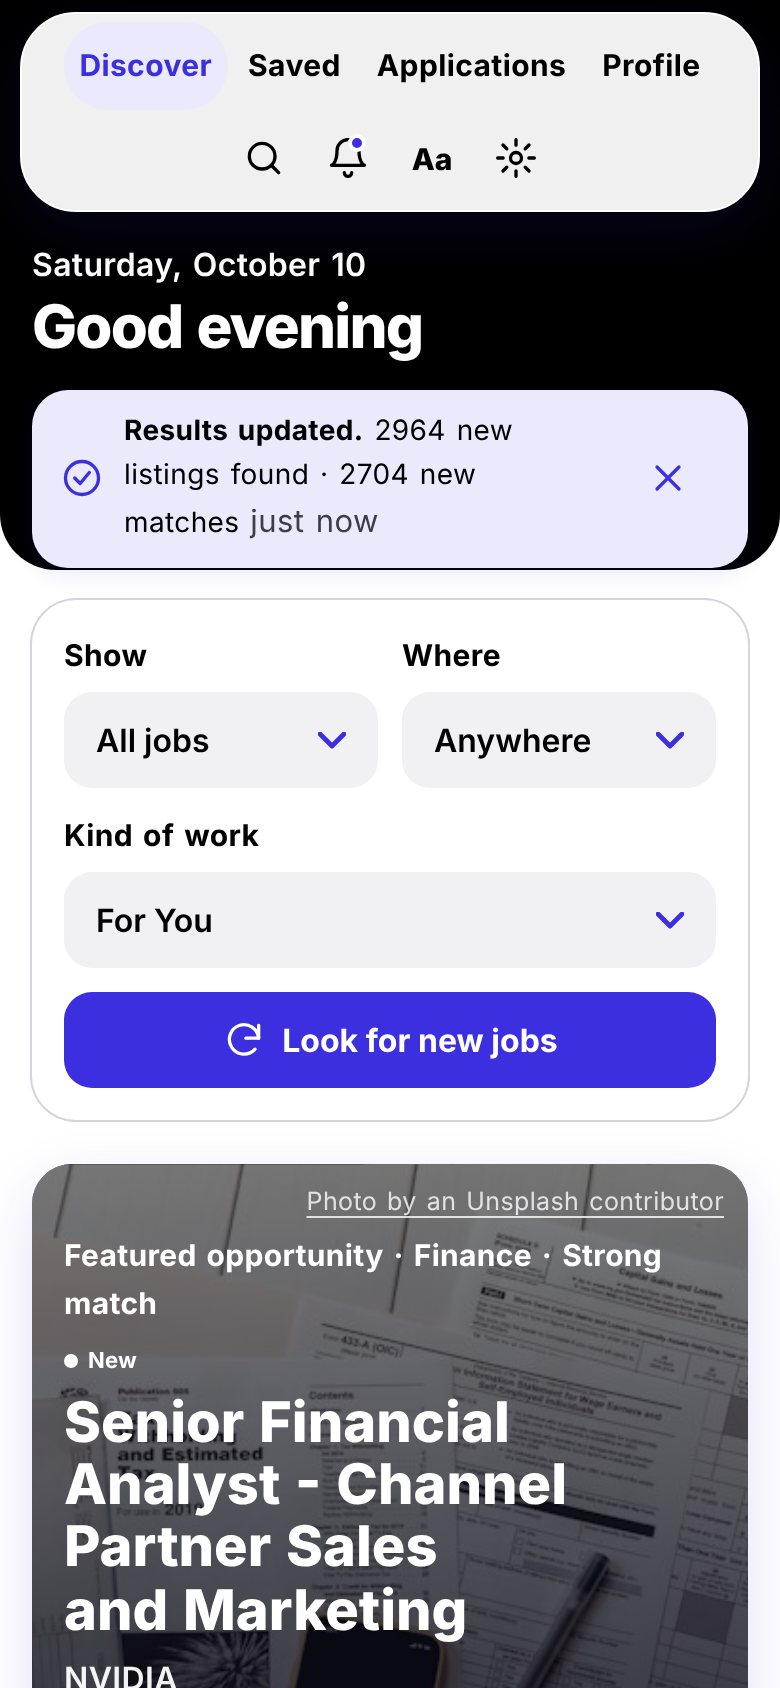
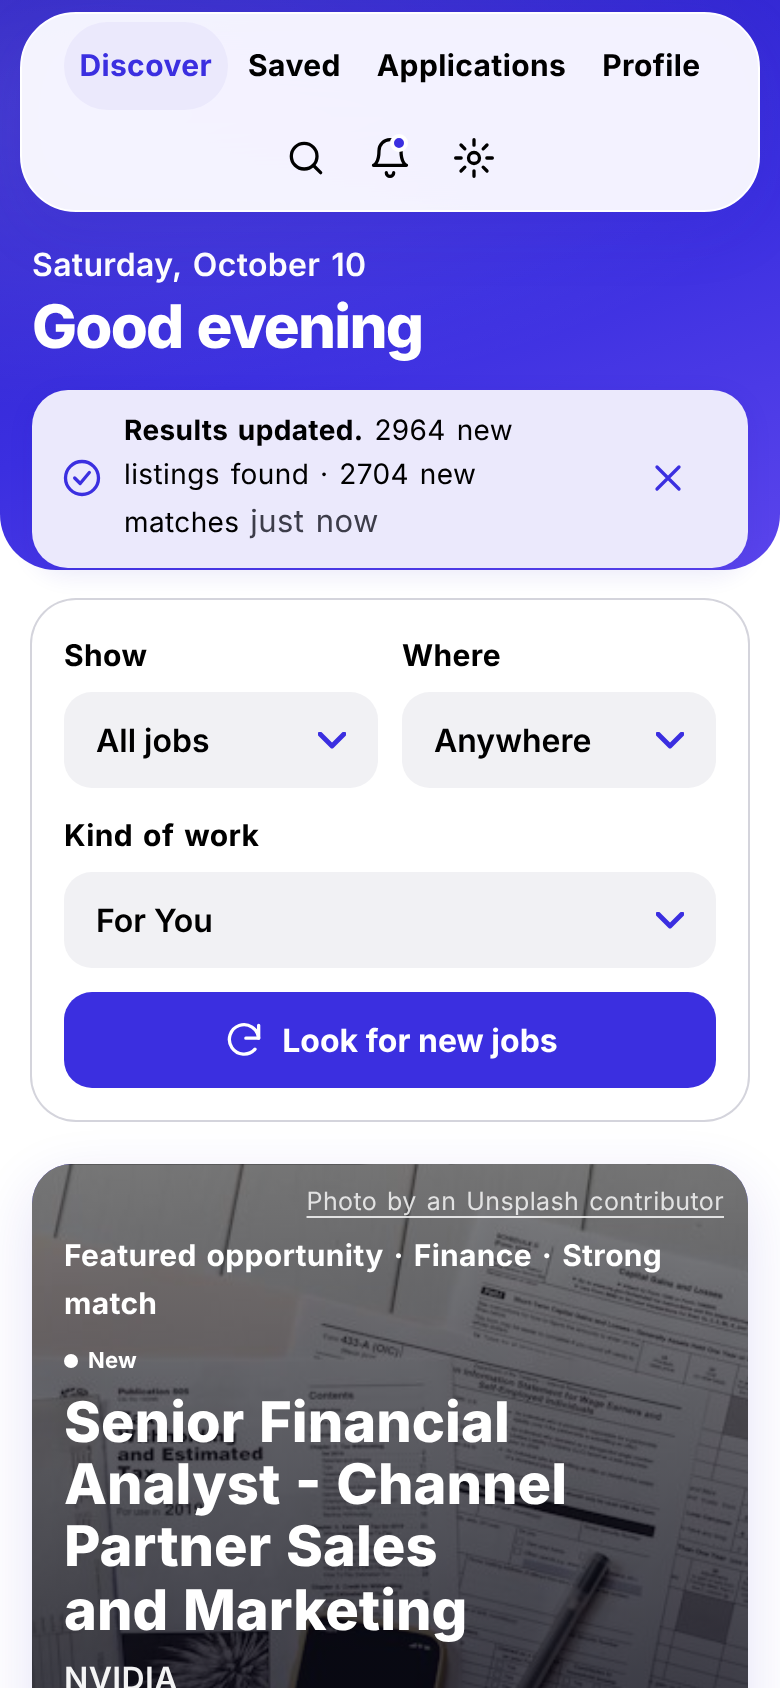
Header band back to purple-blue
Claude-Session: https://claude.ai/code/session_012PdbmGLYxedDNTKbujHA59

Changed region(s): [[0.0, 0.0, 1.0, 0.3389]]

diff --git a/public/css/modern.css b/public/css/modern.css
@@ -283,3 +283,5 @@ body::before { background: #000000; }
 @media (prefers-color-scheme: dark) { :root:not([data-theme="light"]) .dock { background: rgba(24, 24, 28, .96); border-color: #34343c; } }
 .card, .filterbar { box-shadow: 0 0 0 1px var(--line); }
 .fsel select { background-color: var(--surface-2); }
+/* header band: purple-blue like the other accents */
+body::before { background: radial-gradient(520px 220px at 12% 18%, rgba(255,255,255,.12), transparent 70%), linear-gradient(160deg, #2a1fc4 0%, #3b2fe0 55%, #5b45ec 100%); }
